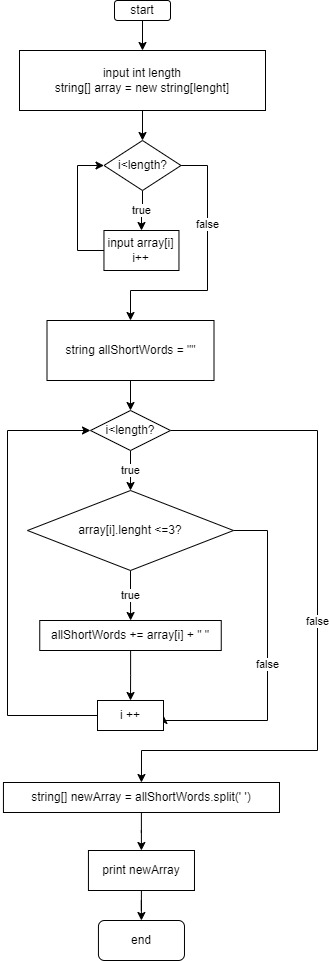
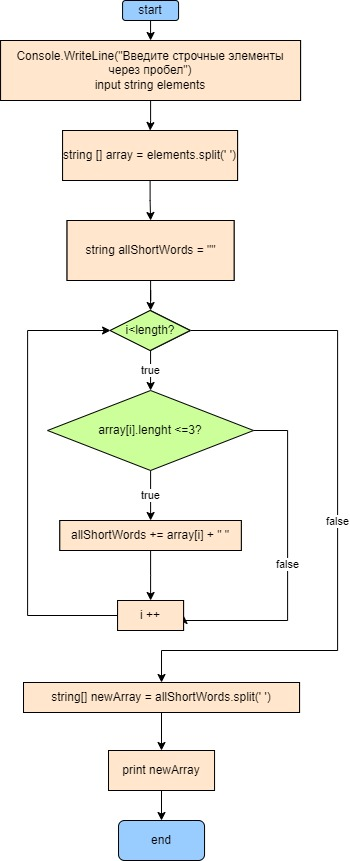
add program

diff --git a/Program.cs b/Program.cs
@@ -1,2 +1,42 @@
-// See https://aka.ms/new-console-template for more information
-Console.WriteLine("Hello, World!");
+/* Написать программу, которая из имеющегося массива строк сформирует массив из строк, длина которых меньше, либо равна 3 символам.
+ Первоначальный массив можно ввести с клавиатуры, либо задать на старте выполнения алгоритма.*/
+
+ // Метод разбиения строки на элементы массива по пробелам
+ string[] SplitStringToArray (string elements)
+  {
+    string[] array = elements.Split(' ', StringSplitOptions.RemoveEmptyEntries); // Убираем пустые подстроки, чтобы они не попали в результирующий массив
+    return array;
+ }
+
+ // Метод получения суммы строк, удовлетворяющих условию
+
+ string SumShortElements (string[]array, int maxStringLenght)
+ {
+    string sum = "";
+    for (int i = 0; i < array.Length; i++)
+    {
+        if (array[i].Length <= 3)
+        {
+            sum += array[i]+" ";
+        }
+    }
+    return sum;
+ }
+
+// Метод печати массива
+void PrintArray (string[] array)
+{
+    Console.Write("[");
+    for (int i = 0; i < array.Length-1; i++)
+    {
+        Console.Write($"{array[i]}, ");
+    }
+    Console.Write($"{array[array.Length-1]}]");
+}
+
+Console.WriteLine("Введите элементы массива через пробел");
+string elements = Console.ReadLine() ??"";
+string[] arr = SplitStringToArray(elements);
+string sum = SumShortElements(arr, 3);
+string[] result = SplitStringToArray(sum);
+PrintArray(result);
